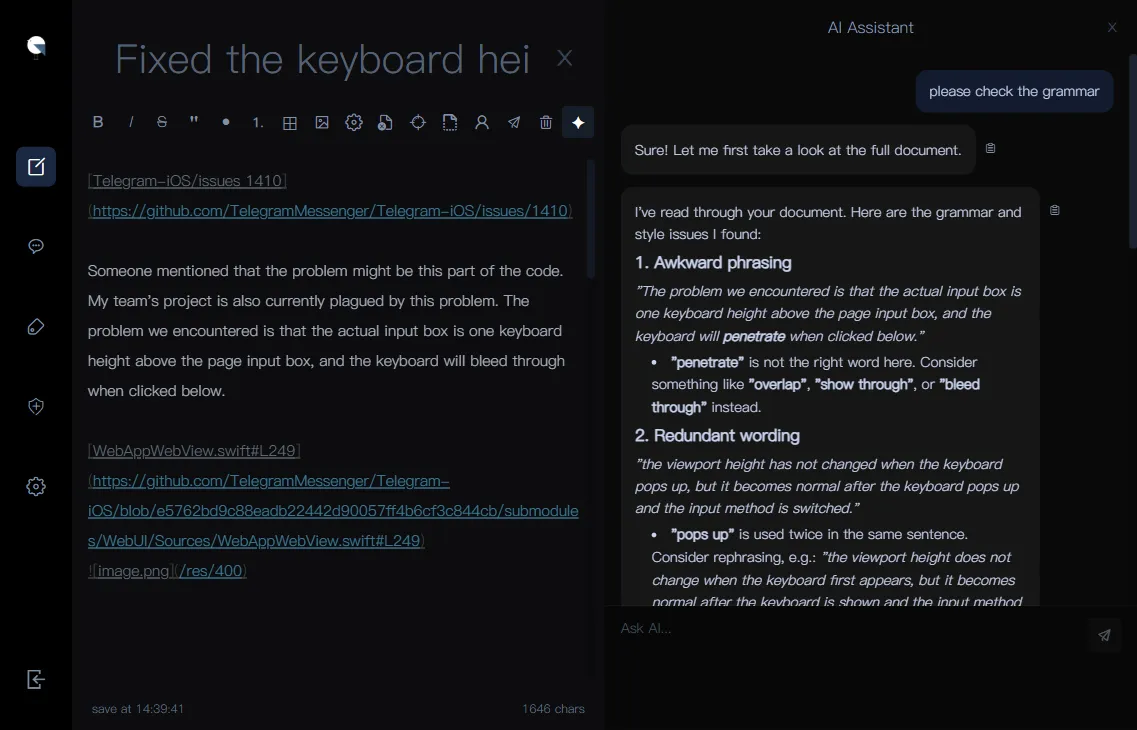
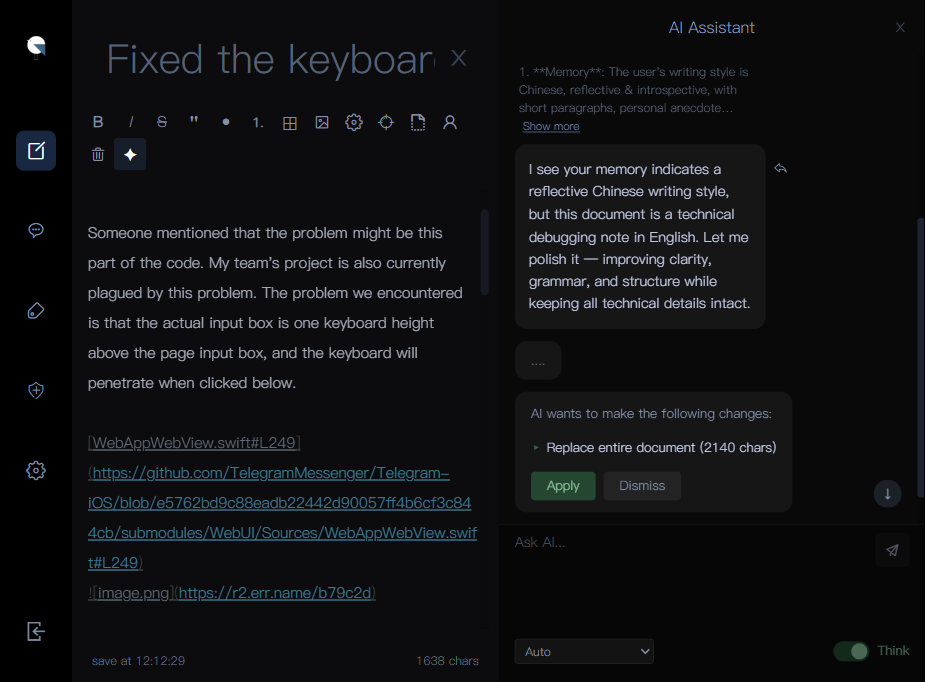
fix: AI MEMORY PROFILE UI adn doc update

diff --git a/src/routes/admin/setting/MemoryProfile.svelte b/src/routes/admin/setting/MemoryProfile.svelte
@@ -247,7 +247,7 @@
   .memory-profile-card {
     border: 1px solid rgb(31 109 255 / 0.2);
     box-shadow: 0 30px 60px rgba(0, 0, 0, 0.8);
-    max-height: 90vh;
+    max-height: 85vh;
 		height: 640px;
     padding: 12px 16px;
     background: #000;

diff --git a/README.md b/README.md
@@ -27,13 +27,14 @@ A modern self-hosted markdown blog system powered by SvelteKit, Bun, and DeepSee
 ### Desktop
 
 <p>
-  <img src="doc/home.webp" width="750" alt="file list" /><br/><br/>
+  <img src="doc/home.webp" width="750" alt="home" /><br/><br/>
   <img src="doc/list.webp" width="750" alt="file list" /><br/><br/>
   <img src="doc/view.webp" width="750" alt="file view" /><br/><br/>
   <img src="doc/login.webp" width="750" alt="login" /><br/><br/>
   <img src="doc/write.webp" width="750" alt="writing" /><br/><br/>
   <img src="doc/fw.webp" width="750" alt="file management" /><br/><br/>
   <img src="doc/manage.webp" width="750" alt="admin settings" />
+  <img src="doc/memory.webp" width="750" alt="ai memory card" />
   <img src="doc/ai.webp" width="750" alt="ai assistant" />
 </p>
 
@@ -45,6 +46,7 @@ A modern self-hosted markdown blog system powered by SvelteKit, Bun, and DeepSee
   <img src="doc/manage_m.webp" width="220" alt="admin on mobile" />
   <img src="doc/write_m.webp" width="220" alt="writing on mobile" />
   <img src="doc/fw_m.webp" width="220" alt="file management on mobile" />
+  <img src="doc/ai_m.webp" width="220" alt="ai assistant on mobile" />
 </p>
 
 ## Features